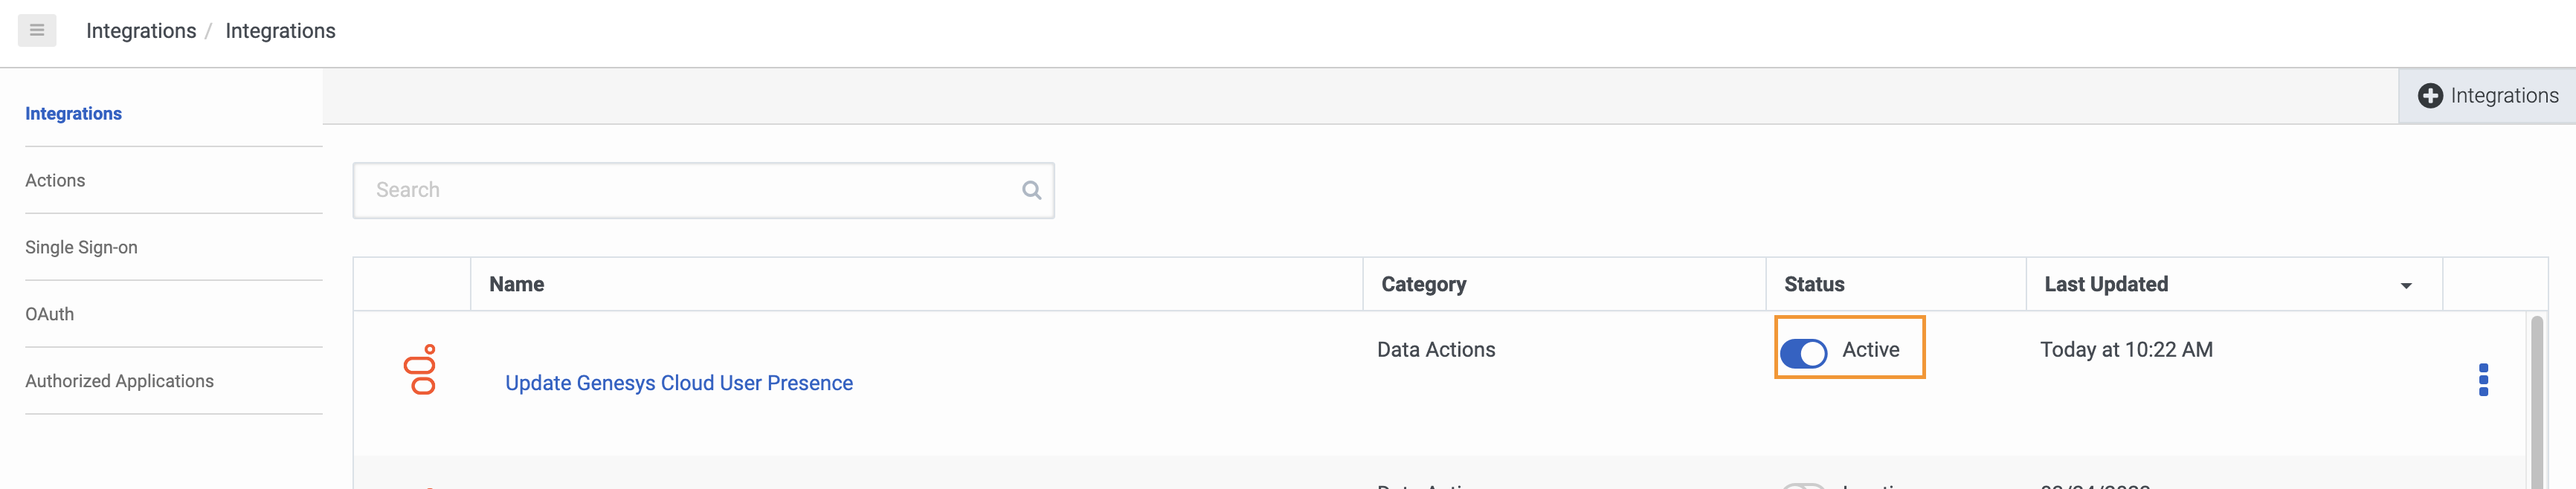
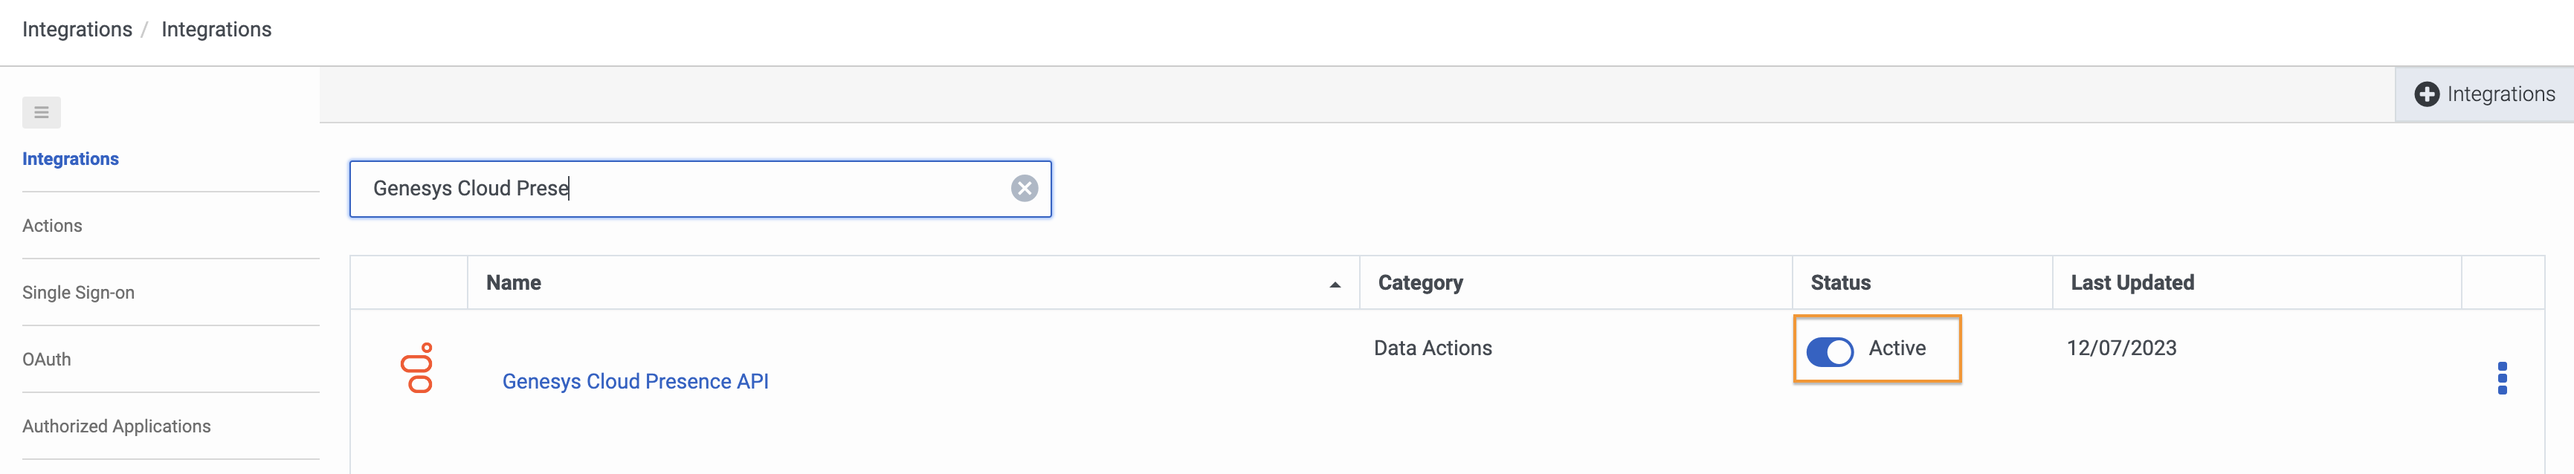
updated with data table, architect workflow and trigger documentation and screenshots

diff --git a/Blueprint/index.md b/Blueprint/index.md
@@ -90,7 +90,7 @@ To create an OAuth Client in Genesys Cloud:
 
 ### Add Genesys Cloud data action integration
 
-Add a Genesys Cloud data action integration for each OAuth client being used with this blueprint to call the Genesys Cloud public API to:
+Add a Genesys Cloud data action integration for the OAuth client being used with this blueprint to call the Genesys Cloud public API to:
 * Lookup a Genesys Cloud User's presence
 * Update a Genesys Cloud User's presence
 
@@ -100,7 +100,7 @@ To create a data action integration in Genesys Cloud:
 
    ![Genesys Cloud data actions integration](images/3AGenesysCloudDataActionInstall.png "Genesys Cloud data actions integration")
 
-2. Enter a name for the Genesys Cloud data action, such as Update Genesys Cloud User Presence in this blueprint solution.
+2. Enter a name for the Genesys Cloud data action, such as **Genesys Cloud Presence API** in this blueprint solution.
 
    ![Rename the data action](images/3BRenameDataAction.png "Rename the data action")
 
@@ -139,3 +139,103 @@ The GC User Presence data actions use the authenticated token that is supplied b
 6. Select the Get-Genesys-Cloud-User-Presence.custom.json file and associate it with the **Update Genesys Cloud User Presence** integration that you created in the [Add a web services data actions integration](#add-a-web-services-data-actions-integration "Goes to the Add a web services data actions integration section") section, and then click **Import Action**.
 
  ![Import the Update Genesys Cloud User Presence data action](images/4BImportFindTeamsUserIdDataAction2.png "Import the Get Genesys Cloud User Presence data action")
+
+## Create a Data Table
+1. From the [gc-presence-update-from-ms-teams repo](https://github.com/GenesysCloudBlueprints/gc-presence-update-from-ms-teams) GitHub repository, download the **TeamsPresenceMappings.csv** file.
+2. Go to **Admin**>**Architect**>**Data Table**
+3. Click **Add**
+4. Name your data table **MsTeamsPresenceMappings** and define the **Reference Key Label** as **MsTeamsPresenceMappings**.
+ ![Create Data Table](images/CreateDataTable.png "Create Data Table")
+5. Click "Save"
+6. From the Data Table list view, open your newly created **MSTeamsPresenceMappings** Data Table
+7. From the Data Table single view, click **Manage Imports**
+8. Click **Select Import File**, locate the **TeamsPresenceMappings.csv** file on your machine
+9. Select the appropriate **Import Options** mode of **Append Data** or **Replace All Data** based on your use case
+10. Click **Import**
+
+![Import Microsoft Teams to Genesys Cloud Presence Mappings](images/ImportPresenceMappings.png "Import Presence Mappings")
+
+  :::primary
+  **Note:** Below is a table of the default presence mappings from Microsoft Teams to Genesys Cloud.  Adjust these mappings to suit your business rules.  If there are Microsoft Teams presence values that you do NOT want to trigger a Genesys Cloud presence update, simply remove them from the csv file prior to import.  
+  :::
+
+  | Teams Presence   | GC Presence | GC Presence Id |
+  |----------------|-------------------------------|-------|
+  | Available | Available | 6a3af858-942f-489d-9700-5f9bcdcdae9b |
+  | Away | Away | 5e5c5c66-ea97-4e7f-ac41-6424784829f2 |
+  | BeRightBack | Away | 5e5c5c66-ea97-4e7f-ac41-6424784829f2 |
+  | Busy | Busy | 31fe3bac-dea6-44b7-bed7-47f91660a1a0 |
+  | DoNotDisturb | Busy | 31fe3bac-dea6-44b7-bed7-47f91660a1a0 |
+  | Focusing | Busy | 31fe3bac-dea6-44b7-bed7-47f91660a1a0 |
+  | InACall | Busy | 31fe3bac-dea6-44b7-bed7-47f91660a1a0 |
+  | InAMeeting | Busy | 31fe3bac-dea6-44b7-bed7-47f91660a1a0 |
+  | Offline | Offline | ccf3c10a-aa2c-4845-8e8d-f59fa48c58e5 |
+  | OffWork | Offline | ccf3c10a-aa2c-4845-8e8d-f59fa48c58e5 |
+  | Presenting | Busy | 31fe3bac-dea6-44b7-bed7-47f91660a1a0 |
+
+
+  :::primary
+  **Note:** If you have user defined secondary presence values you would like to use in your presence mappings, you can use the **GET /api/v2/presencedefinitions** GC Public API endpoint to find all your presence definition ids.  A link to the Genesys Cloud API explorer is in the Additional Resources section at the bottom of this blueprint.  Once you have the id of the presence value you would like to use, simply update the csv file prior to import.
+  :::
+
+### Import the Architect workflow
+
+This solution includes one Architect workflow that uses the data actions you just created to retrieve and update the user's presence in Genesys Cloud.
+
+* The **Microsoft Teams Integration Presence Trigger.i3WorkFlow** workflow is triggered upon a Microsoft Teams integration presence change. This workflow looks up the GC user's current Genesys Cloud presence to ensure they are not "On Queue".  If they are not "On Queue", the Teams Presence value is looked up in a Data Table with mappings to Genesys Cloud Presence Id's.  If the Microsoft Teams presence value is found, the GC user's GC presence will be updated with the Genesys Cloud presence value corresponding to the Microsoft Teams presence value in the data table.
+
+This workflow will be called by the process automation trigger, which you will create in the next section.
+
+1. Download the **Microsoft Teams Integration Presence Trigger.i3WorkFlow** file from the [gc-presence-update-from-ms-teams repo](https://github.com/GenesysCloudBlueprints/gc-presence-update-from-ms-teams) GitHub repository.
+
+2. In Genesys Cloud, navigate to **Admin** > **Architect** > **Flows:Workflow** and click **Add**.
+
+   ![Import the workflow](images/AddWorkflow1.png "Import the workflow")
+
+3. Name your workflow and click **Create**.
+
+  ![Name your workflow](images/NameWorkflow1.png "Name your workflow")
+
+4. From the **Save** menu, click **Import**.
+
+   ![Import the workflow](images/ImportWorkflow1.png "Import the workflow")
+
+5. Select the downloaded **Microsoft Teams Integration Presence Trigger.i3WorkFlow** file. Click **Import**.
+
+   ![Import your workflow file](images/SelectWorkflow1ImportFile.png "Import your workflow file")
+
+6. After you have reviewed your workflow, click **Save** and then click **Publish**.
+
+  ![Save your workflow](images/ImportedWorkflow1.png "Save your workflow")
+
+## Create the trigger
+
+Create the trigger that invokes the created Architect workflow.
+
+1. From Admin Home, search for **Triggers** and navigate to the Triggers list.
+
+ ![Navigate to Triggers](images/NavigateToTriggers.png "Navigate to Triggers")
+
+2. From the Triggers list, click **Add Trigger**
+
+ ![Add Trigger](images/AddTrigger.png "Add Trigger")
+
+3. From the Add New Trigger modal, name your trigger and click **Add**
+
+ ![Name Trigger](images/NameTrigger.png "Name Trigger")
+
+4. From the Trigger single view, in the **Topic Name** menu, select **v2.users.{id}.integrationpresence**.  In the **Workflow Target** menu, select **Microsoft Teams Integration Presence Trigger**.  Leave **Data Format** as **TopLevelPrimitives**.  Click **Add Condition**.  For more information, see [Available Topics](https://developer.genesys.cloud/notificationsalerts/notifications/available-topics "Opens the Available Topics article") in the Genesys Cloud Developer Center.  Using the notification monitoring tool in the Developer Center, you can watch the notifications happen.
+
+5. From the Trigger single view, in the **JSON Path** field, type **source**.  In the **Operator** menu, select **Equals (==)**.  In the **Value** field, type **"MICROSOFTTEAMS"**.  Click **Create**.
+
+    ![Configure Trigger Criteria](images/ConfigureTriggerCriteria.png "Configure Trigger Criteria")
+
+6. From the Trigger single view, set the **Active** toggle to **Active**.  Click **Save**.
+
+   ![Activate Trigger](images/ActivateTrigger.png "Activate Trigger")
+
+## Additional resources
+
+* [Genesys Cloud API Explorer](https://developer.genesys.cloud/devapps/api-explorer "Opens the GC API Explorer") in the Genesys Cloud Developer Center
+* [Genesys Cloud notification triggers](https://developer.genesys.cloud/notificationsalerts/notifications/available-topics "Opens the Available topics page") in the Genesys Cloud Developer Center
+* The [gc-presence-update-from-ms-teams repo](https://github.com/GenesysCloudBlueprints/gc-presence-update-from-ms-teams) repository in GitHub
